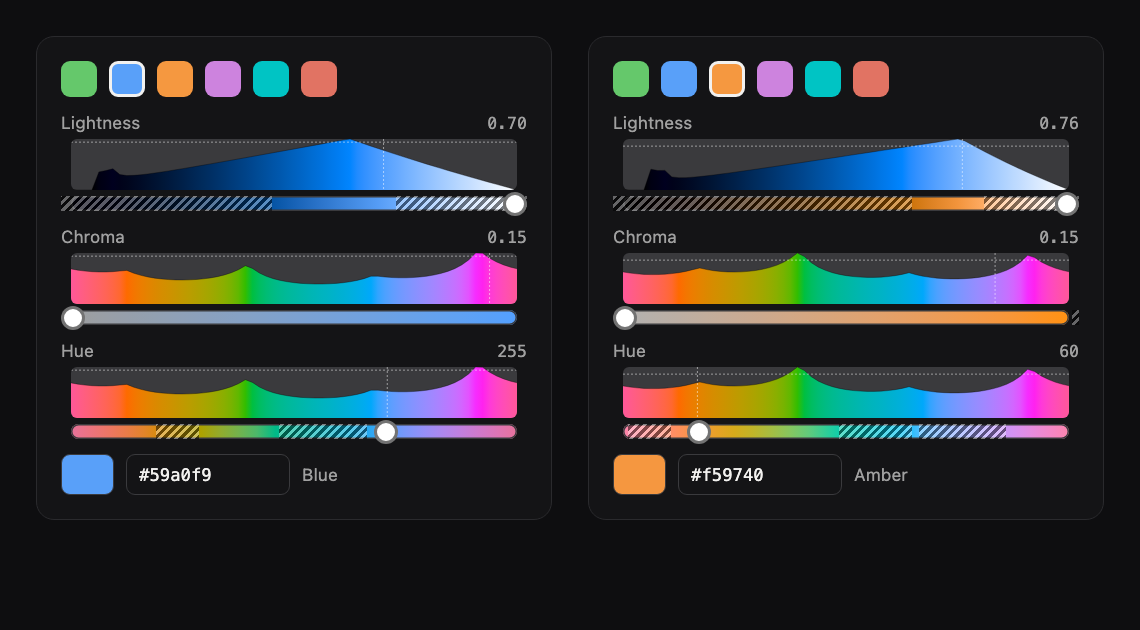
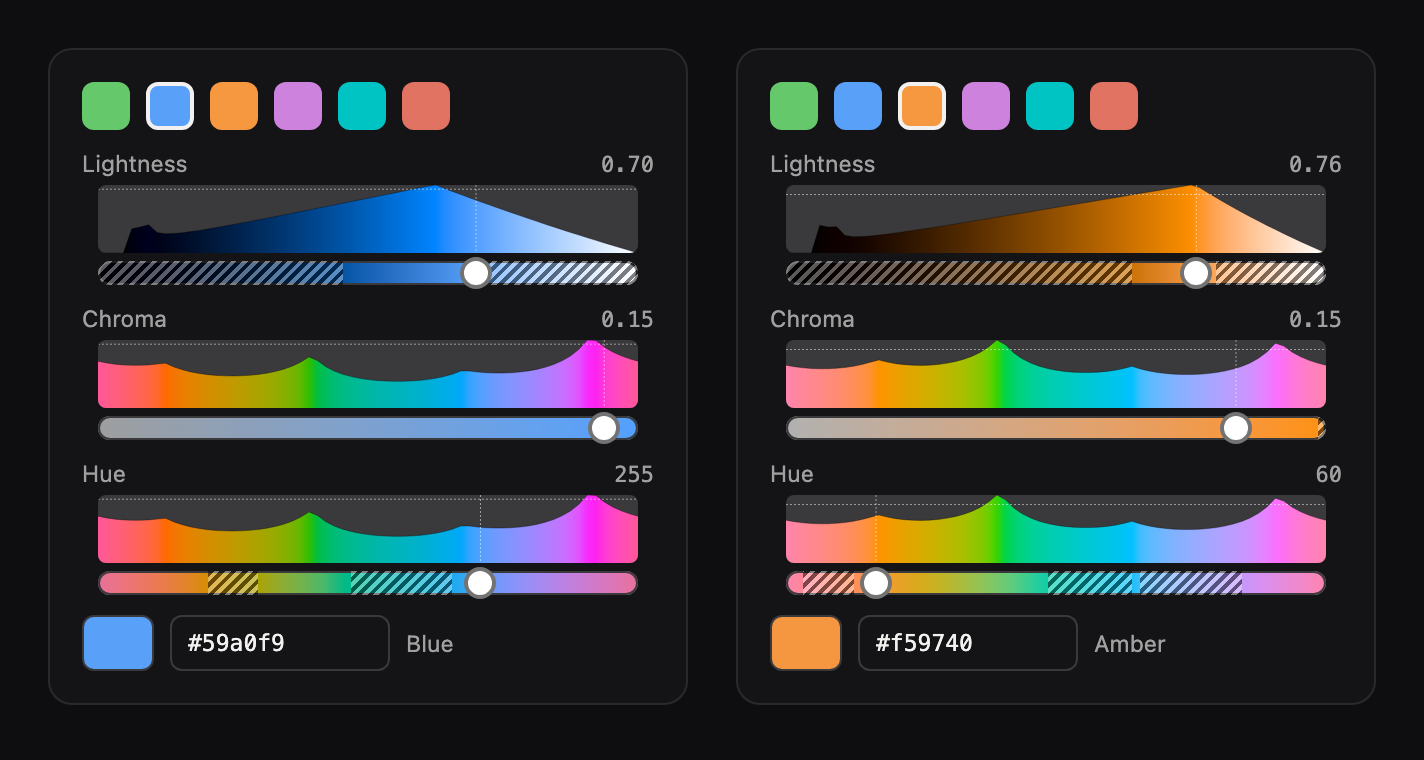
docs: Reshoot screenshots and add the compact and side-by-side layouts

diff --git a/README.md b/README.md
@@ -68,6 +68,15 @@ export function Example() {
 <ColourPicker value={colour} onChange={setColour} layout="compact" />
 ```
 
+<picture>
+  <source media="(prefers-color-scheme: dark)" srcset="https://raw.githubusercontent.com/nord-forge/oklch-picker/main/docs/media/compact-dark.png">
+  <img src="https://raw.githubusercontent.com/nord-forge/oklch-picker/main/docs/media/compact-light.png" alt="The compact layout: three thin sliders with single-letter labels" width="288">
+</picture>
+<picture>
+  <source media="(prefers-color-scheme: dark)" srcset="https://raw.githubusercontent.com/nord-forge/oklch-picker/main/docs/media/side-by-side-dark.png">
+  <img src="https://raw.githubusercontent.com/nord-forge/oklch-picker/main/docs/media/side-by-side-light.png" alt="The side-by-side layout: sliders on the left, preview and presets in a right rail" width="468">
+</picture>
+
 ### Hiding parts
 
 Everything except the sliders is optional:
